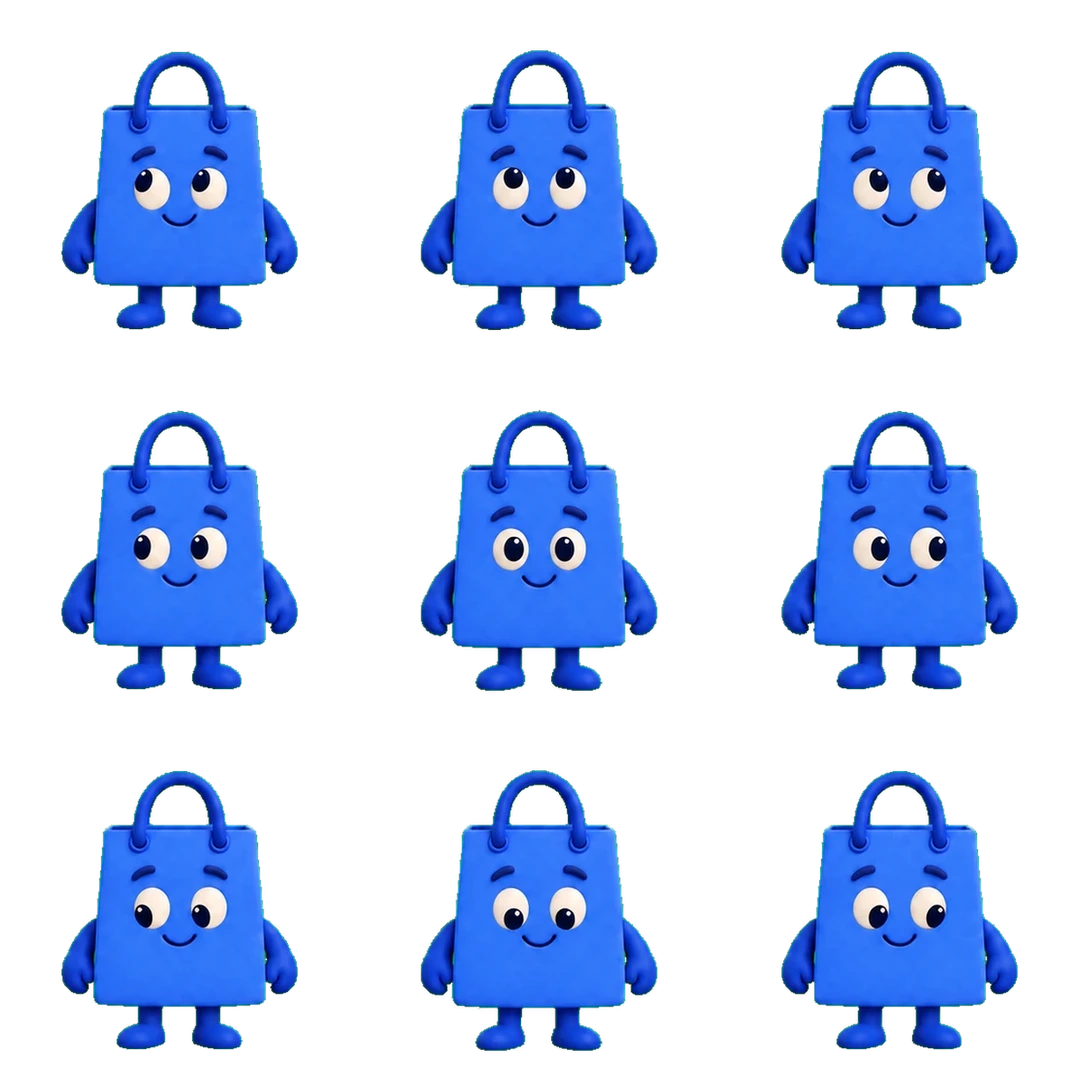
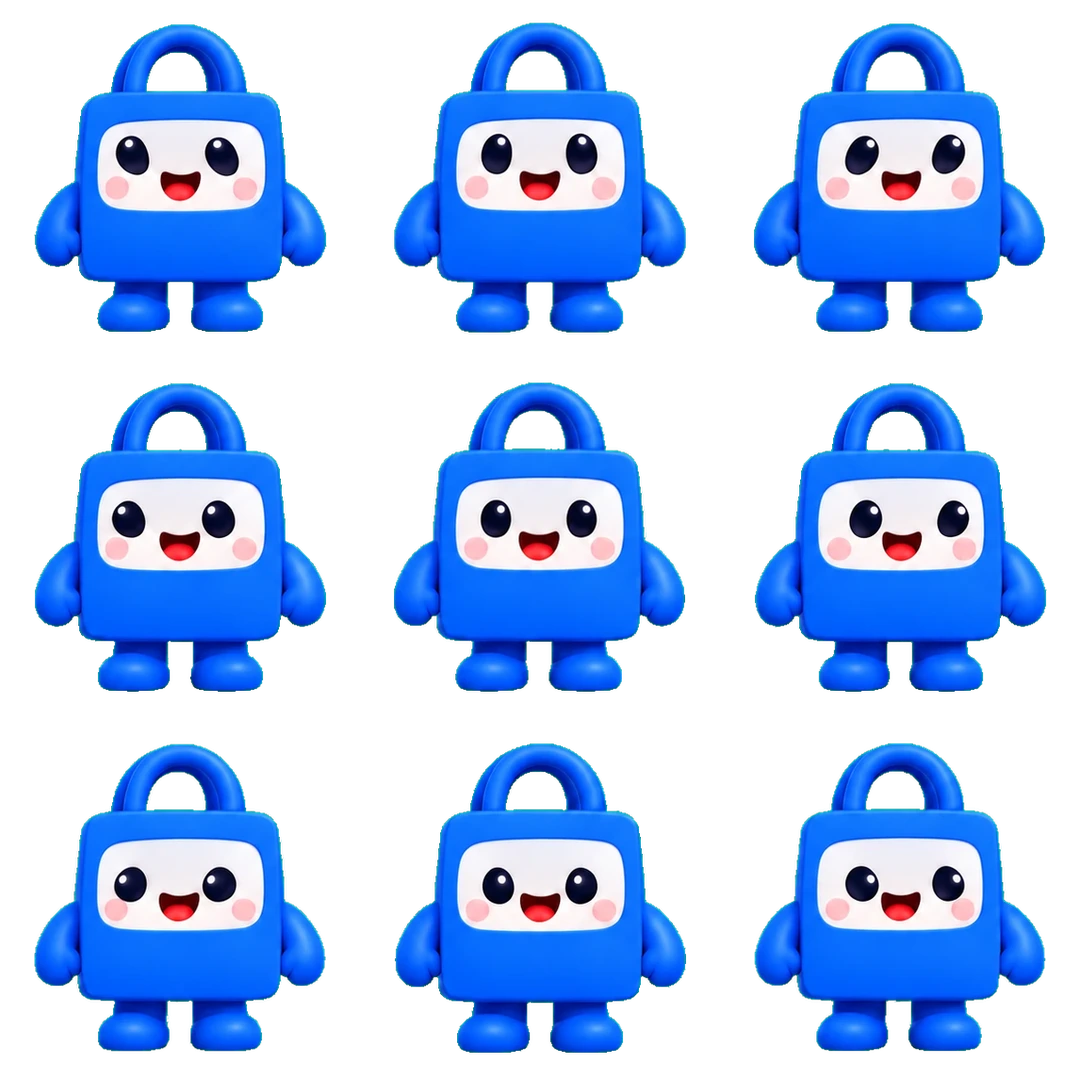
feat: update the bag mascot artwork and make it smaller
Replaces the sprite sheets with the new bag character (white face
panel): both sheets re-keyed, re-gridded at one shared scale and built
with the content anchor and no bottom fade. Verified at 0px shift
between sheets. The face layout matches the previous bag, so the
expression mapping is unchanged.

The launcher box is now 88px (76px on phones), with the thought bubble,
dots and phone edge offsets rescaled for the smaller character and this
artwork's tighter margins.

diff --git a/briz-web/src/components/request-product-widget.module.css b/briz-web/src/components/request-product-widget.module.css
@@ -635,18 +635,18 @@
 /* Illustrated sprite (mascot v2): the character has a margin inside its cell, so
    the dots and bubble are placed against the artwork, not the cell edge. */
 .widgetButton[data-character="sprite"] .thought {
-  top: -24px;
-  right: calc(100% + 6px);
+  top: -38px;
+  right: calc(100% + 18px);
 }
 
 .widgetButton[data-character="sprite"] .thoughtDotSmall {
-  top: 34px;
-  left: 10px;
+  top: 22px;
+  left: -3px;
 }
 
 .widgetButton[data-character="sprite"] .thoughtDotLarge {
-  top: 20px;
-  left: -5px;
+  top: 10px;
+  left: -17px;
 }
 
 .widgetButton[data-character="sprite"] .shopperStage {
@@ -775,33 +775,33 @@
     top: -36px;
   }
 
-  /* The sprite's image cell has empty margins (17% right, 8% bottom). Offset the
-     launcher by those so the artwork itself sits 16px from the right and bottom. */
+  /* The sprite's image cell has empty margins (about 10% right, 8% bottom). Offset
+     the launcher by those so the artwork itself sits 16px from the right and bottom. */
   .widgetWrapper[data-variant="sprite"] {
-    right: -1px;
-    bottom: max(18px, env(safe-area-inset-bottom, 18px));
+    right: 9px;
+    bottom: max(20px, env(safe-area-inset-bottom, 20px));
   }
 
   .widgetButton[data-character="sprite"] .shopperIdle > span,
   .widgetButton[data-character="sprite"] .shopperActive > span {
-    width: 100px !important;
-    height: 100px !important;
+    width: 76px !important;
+    height: 76px !important;
   }
 
   .widgetButton[data-character="sprite"] .thought {
-    top: -20px;
-    right: calc(100% + 6px);
-    max-width: calc(100vw - 16px - 99px - 6px);
+    top: -32px;
+    right: calc(100% + 14px);
+    max-width: calc(100vw - 16px - 9px - 76px - 14px);
   }
 
   .widgetButton[data-character="sprite"] .thoughtDotSmall {
-    top: 26px;
-    left: 7px;
+    top: 18px;
+    left: -3px;
   }
 
   .widgetButton[data-character="sprite"] .thoughtDotLarge {
-    top: 15px;
-    left: -5px;
+    top: 8px;
+    left: -13px;
   }
 
   .widgetButton[data-character="face"] .thoughtDotSmall {

diff --git a/briz-web/src/components/briz-sprite.tsx b/briz-web/src/components/briz-sprite.tsx
@@ -55,8 +55,8 @@ interface BrizSpriteProps {
 // Two 3×3 atlases built with the page-mascot skill and verified to line up
 // (0px shift between them). Faces are in SPRITE_FACES order.
 // Bump the version when the artwork changes, so browsers drop the cached sheet.
-const DIRECTIONS_ATLAS = "/mascots/briz-v2-directions.webp?v=5";
-const REACTIONS_ATLAS = "/mascots/briz-v2-reactions.webp?v=5";
+const DIRECTIONS_ATLAS = "/mascots/briz-v2-directions.webp?v=7";
+const REACTIONS_ATLAS = "/mascots/briz-v2-reactions.webp?v=7";
 // Set to false while a character has only its head-directions sheet: expressions
 // then fall back to the face-forward direction cell.
 export const SPRITE_HAS_EXPRESSIONS = true;

diff --git a/briz-web/src/components/request-shopper-launcher.tsx b/briz-web/src/components/request-shopper-launcher.tsx
@@ -11,7 +11,7 @@ const FACE_SIZE = 76;
 
 // The sprite cell keeps a margin around the character, so the box is a little
 // larger than the character it shows.
-const SPRITE_SIZE = 128;
+const SPRITE_SIZE = 88;
 
 export type LauncherCharacter = "shopper" | "face" | "seller" | "sprite";
 
